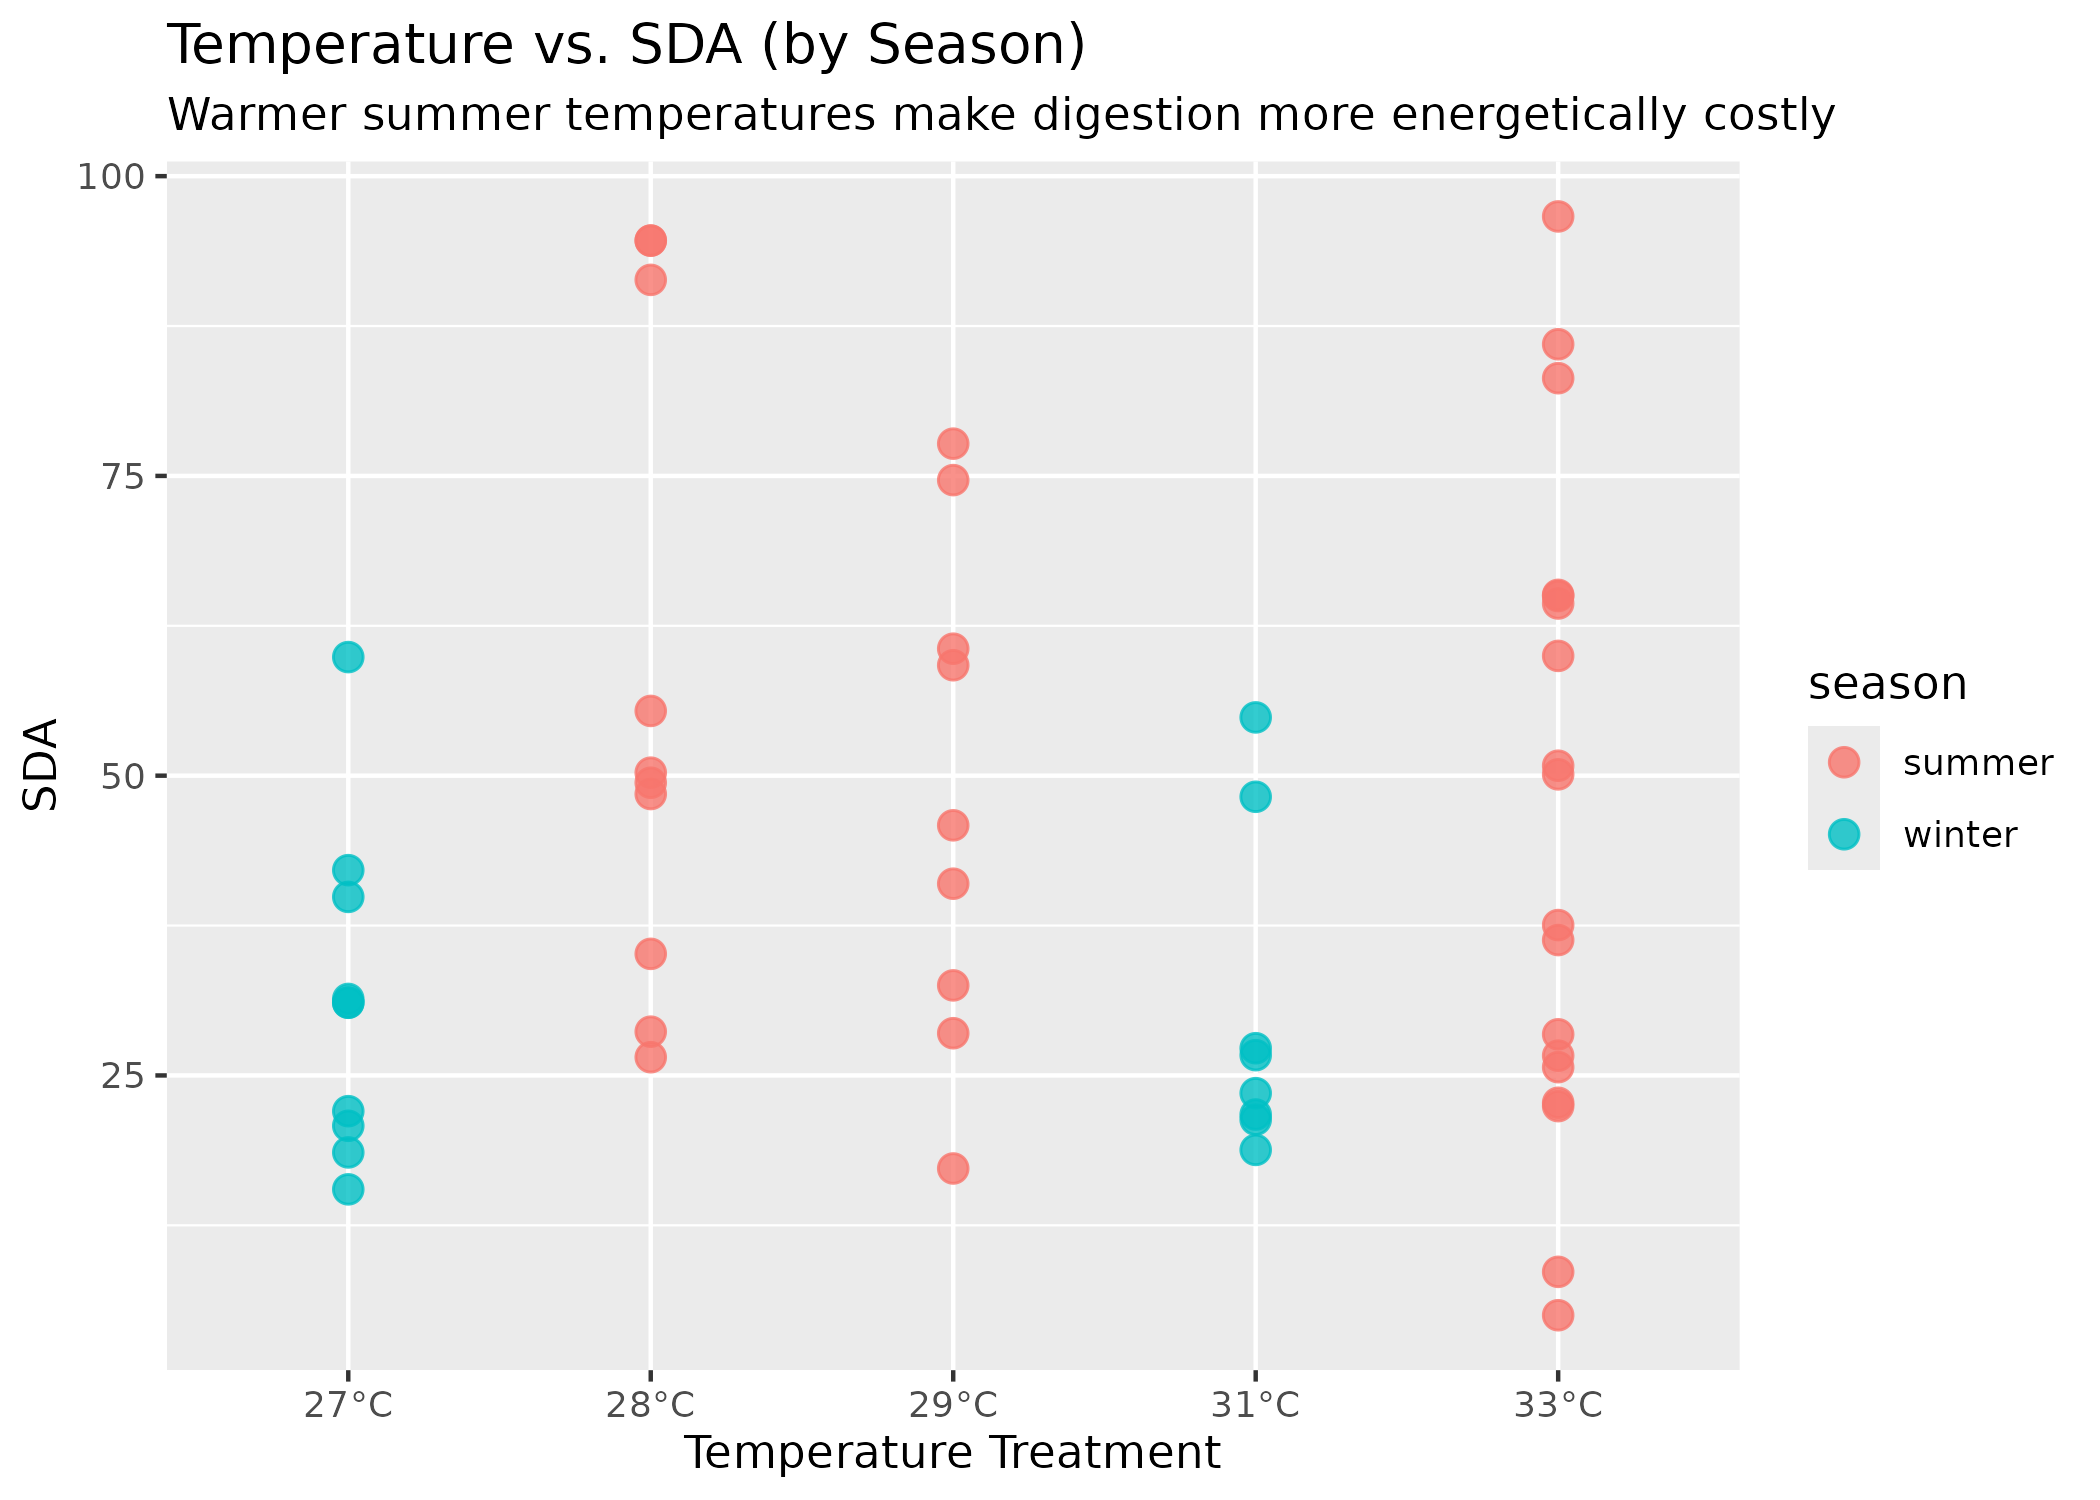
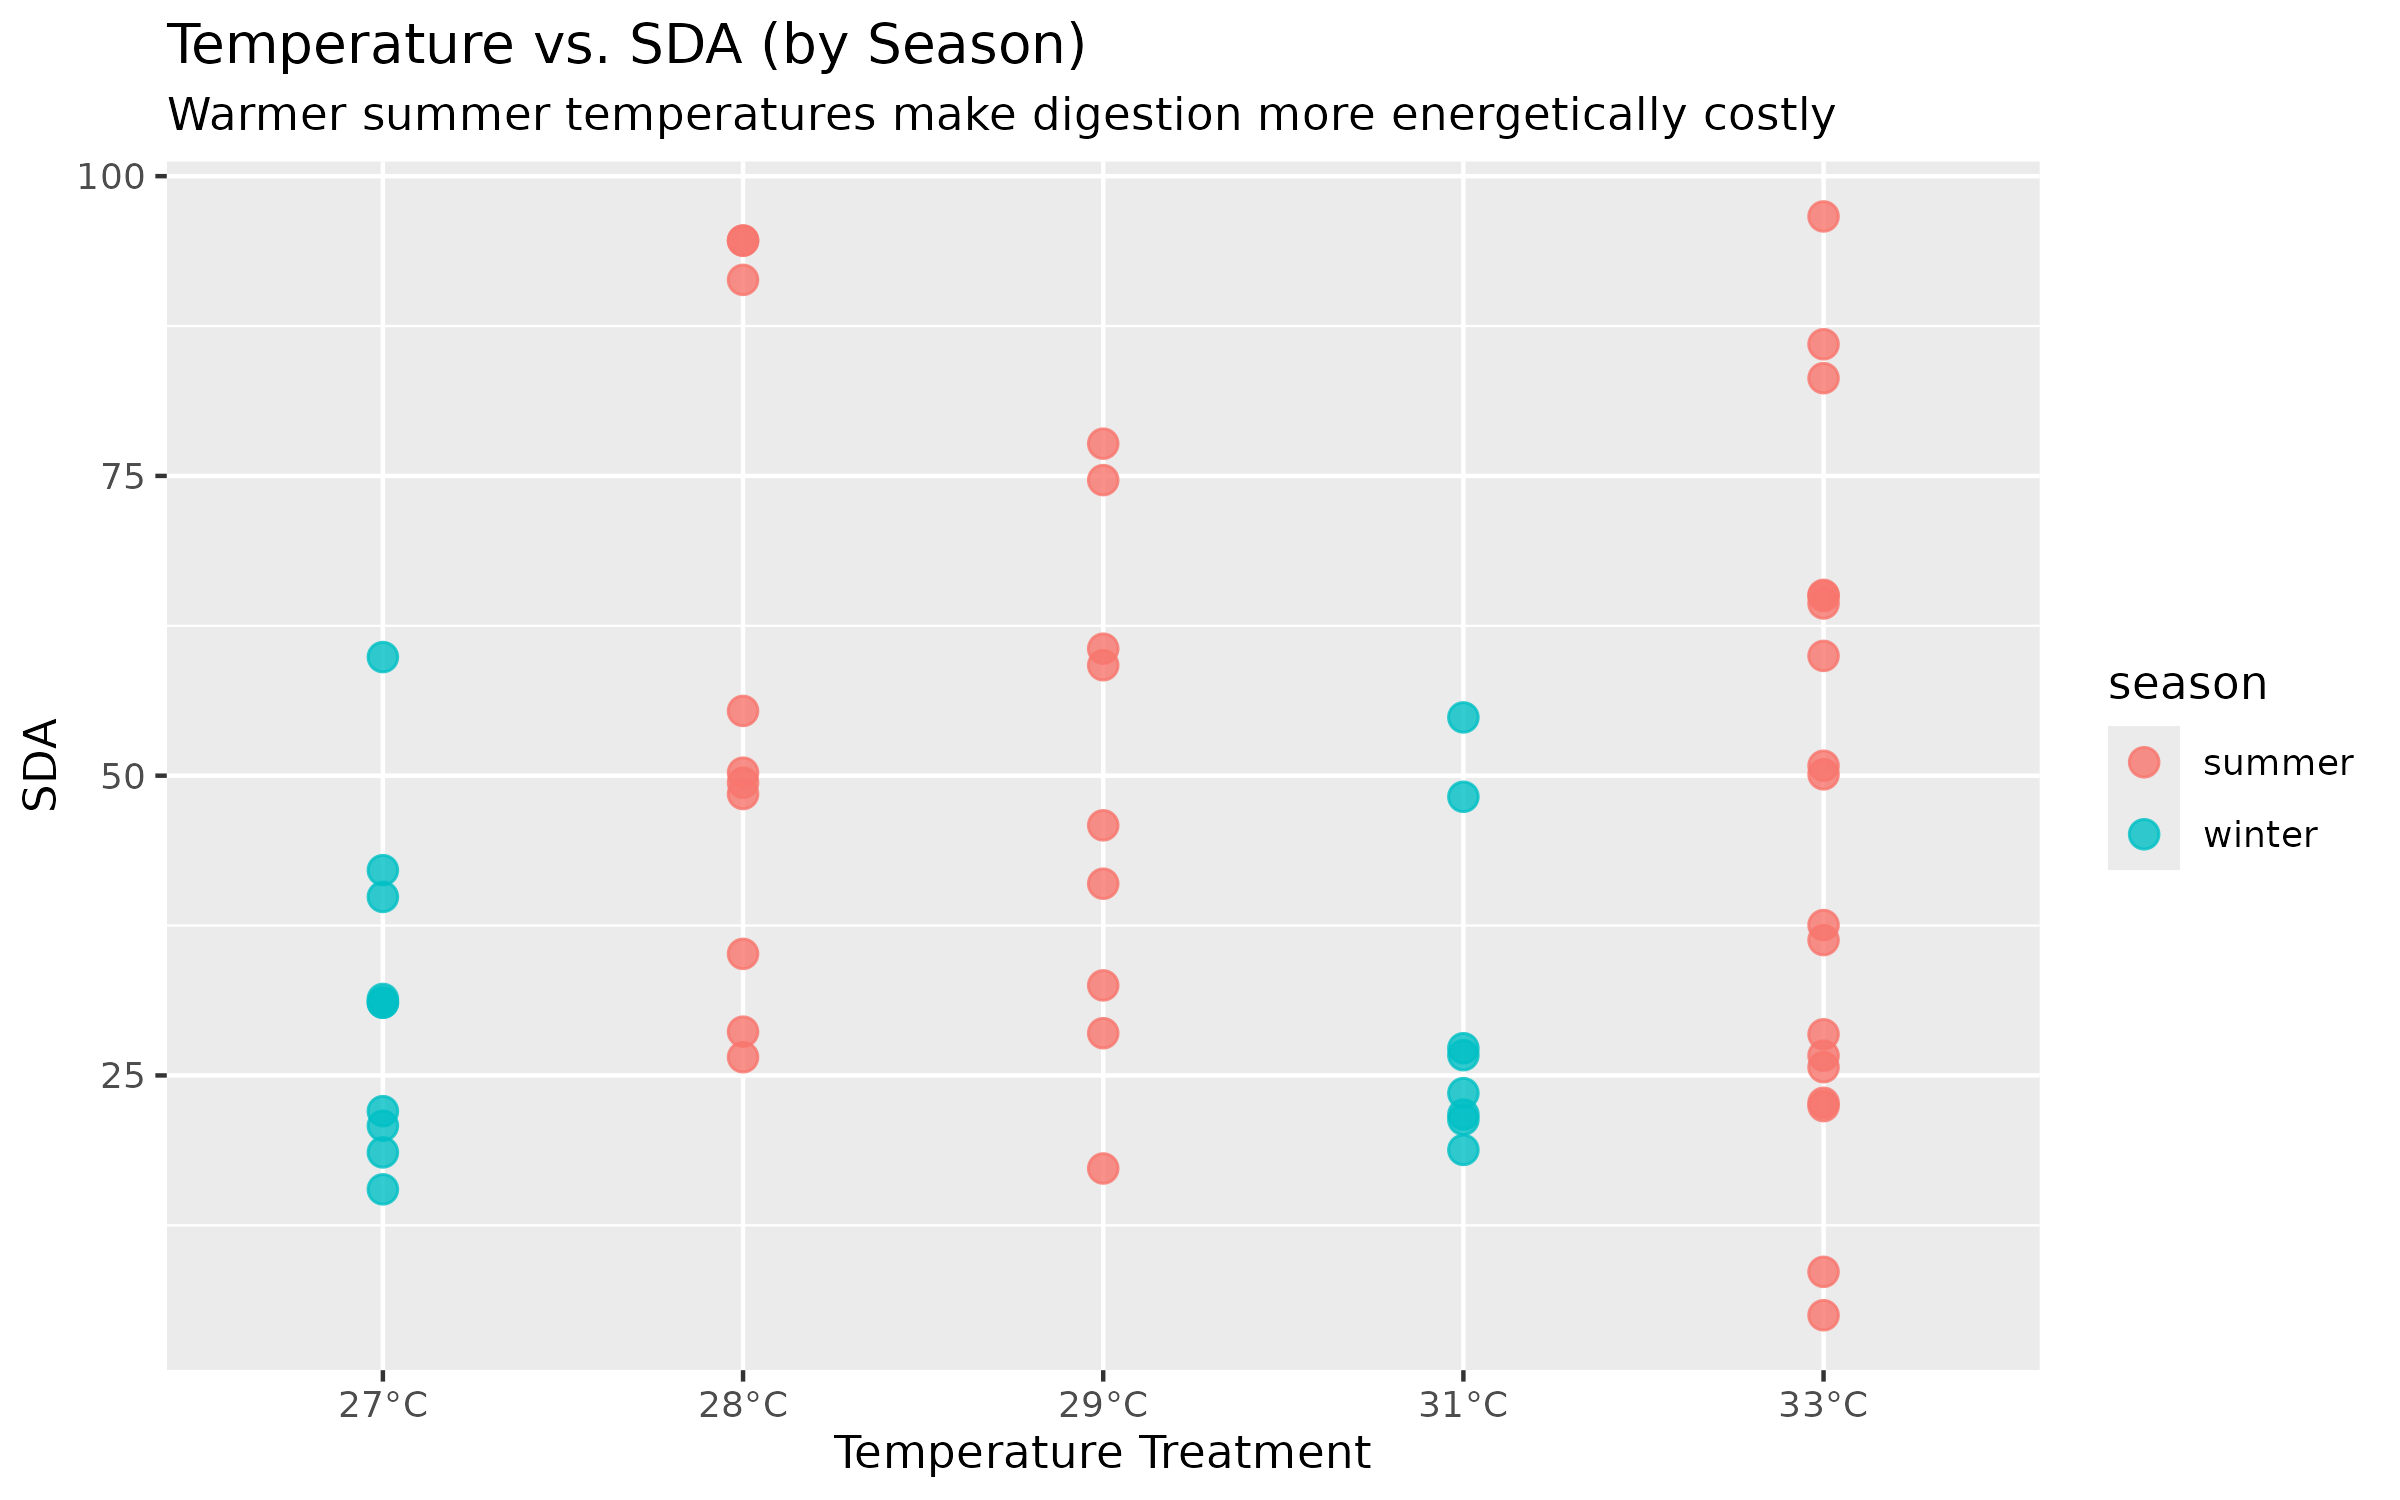
Change font size for title Change the ggsaveline

diff --git a/memo/memo.md b/memo/memo.md
@@ -201,7 +201,7 @@ ggplot(df, aes(x = bw_g, y = mmr_corrected, color = season)) +
 
 ``` r
 #save plot 
-ggsave("fig_body_weight_and_metabolic_rate.png", temp_energy_season, width = 7, height = 5)
+ggsave("fig_body_weight_and_metabolic_rate_across_2_seasons.png", temp_energy_season, width = 8, height = 5)
 ```
 
     ## Warning: Removed 12 rows containing missing values or values outside the scale range
